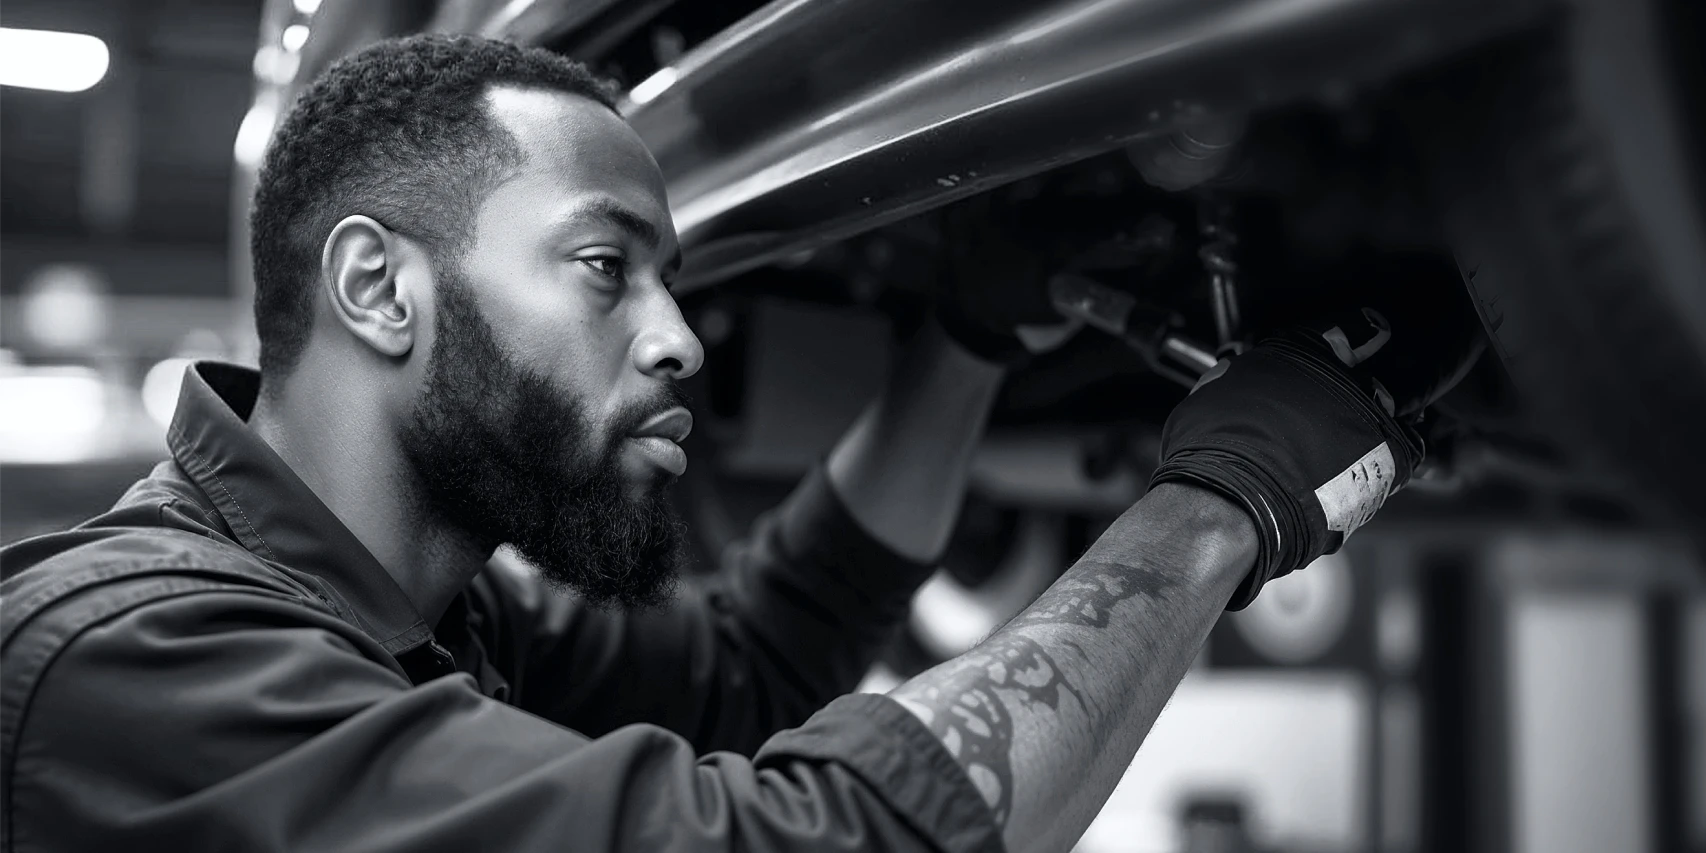
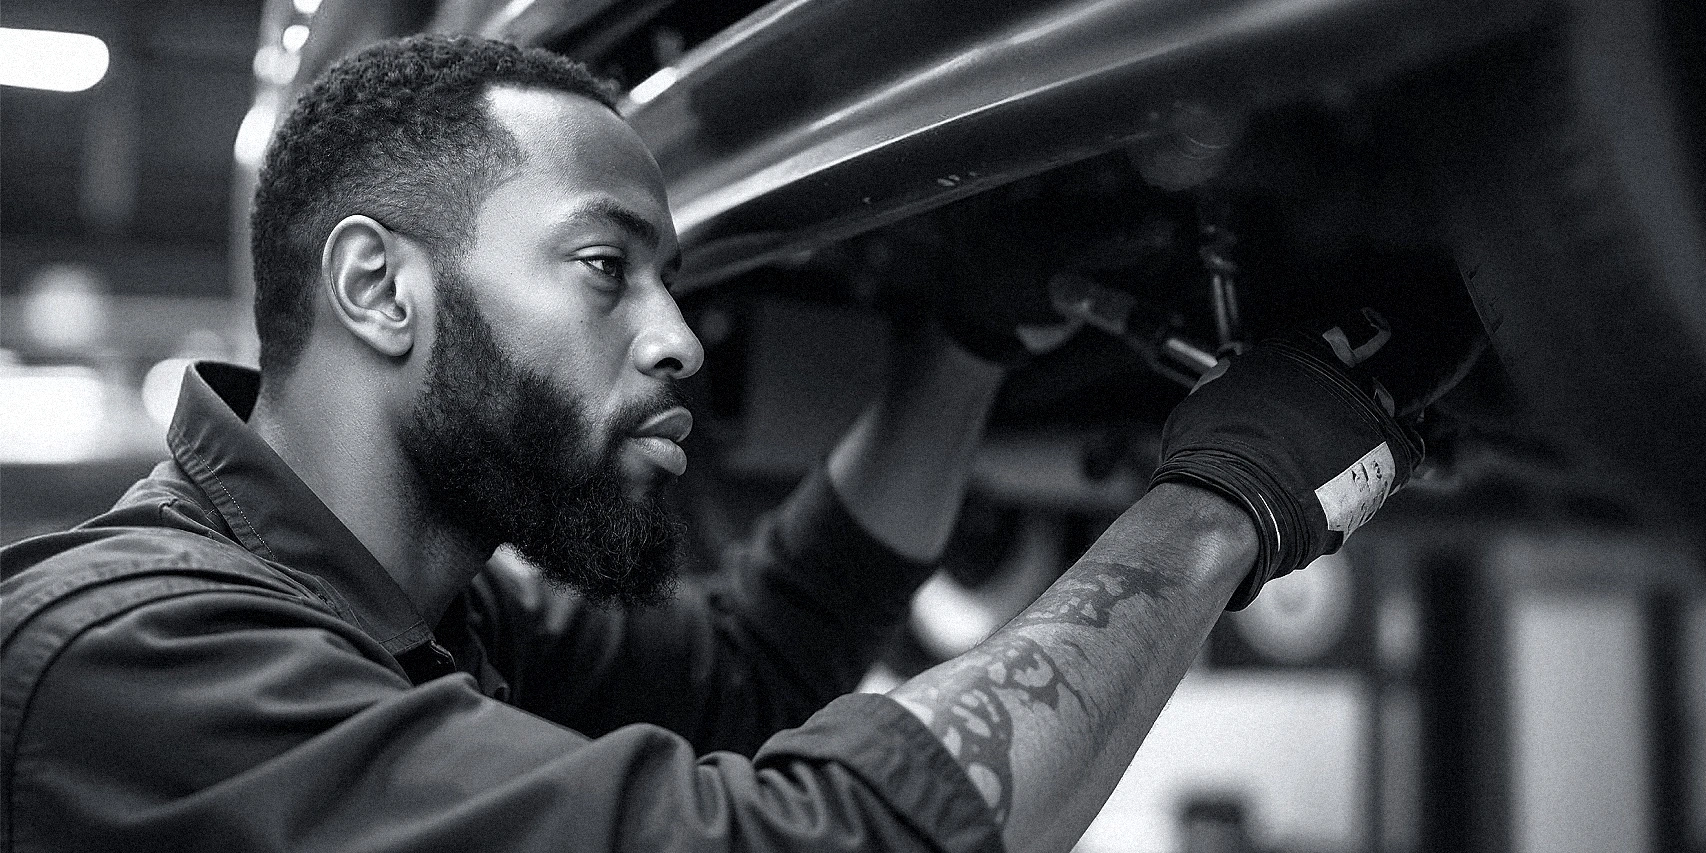
+

Changed region(s): [[0.2175, 0.1524, 0.3417, 0.2438], [0.7767, 0.5487, 0.8077, 0.5791]]

diff --git a/content/industrial-absorbent-pads.md b/content/industrial-absorbent-pads.md
@@ -10,7 +10,7 @@ seoDescription: >
   Professional-grade absorbent pads from Nutcracker Pro. High-performance floor protection with Exxon technology. Durable, non-slip poly backing, ideal for automotive dealerships. Save up to $1,200 yearly with cost-effective bulk ordering.
 subtitle: "Secret Gear Of Silent Heroes:"
 description: >
-  **Industrial Absorbent Pads (PIG Mats)** are high-performance, single-layer meltblown pads engineered with advanced Exxon technology. These pads, sometimes known as PIG Mats, offer unrivaled liquid absorbency — up to 17–20 gallons per pad — making them perfect for tackling spills in industrial settings. With an incredible offer of 200 pads for the price of a standard pack, this is a value-driven solution you don’t want to miss.
+  **Industrial Absorbent Pads (PIG Mats)** are high-performance, single-layer meltblown pads engineered with advanced Exxon technology. These pads, sometimes known as PIG Mats, offer unrivaled liquid absorbency — up to 17–20 gallons per pad — making them perfect for tackling spills in industrial settings. With 200 pads at just $39 per case, this beats the cost of smaller standard packs.
 ogImage: "/images/abspads/ogimage.jpg"
 
 # CTA buttons
@@ -19,11 +19,11 @@ buttonCartText: "Order Absorbent Pads"
 
 # cover slider (in static folder)
 slider:
-  - image: "/images/covers/cover-4.webp"
+  - image: "/images/covers/cover-4-2.webp"
     caption: "Nutcracker Professional Products"
-  - image: "/images/covers/cover-8.webp"
+  - image: "/images/covers/cover-11.webp"
     caption: "Quality Tools for Professionals"
-  - image: "/images/covers/cover-9.webp"
+  - image: "/images/covers/cover-8.webp"
     caption: "Professional Grade Solutions"
 
 # cover image
@@ -69,7 +69,7 @@ benefitsBlocks:
   - title: "Superior Spill Control"
     text: >
       Our pads efficiently absorb a wide range of fluids-oils, solvents, coolants, and more-preventing leaks from spreading and ensuring your service area remains safe and operational.
-  - title: "A Workplace Safety & Compliance"
+  - title: "Workplace Safety & Compliance"
     text: >
       By quickly containing spills, these pads reduce slip hazards and help you meet OSHA and industry safety standards, protecting both your team and your customers.
   - title: "Versatility Across Multiple Liquid Types"
